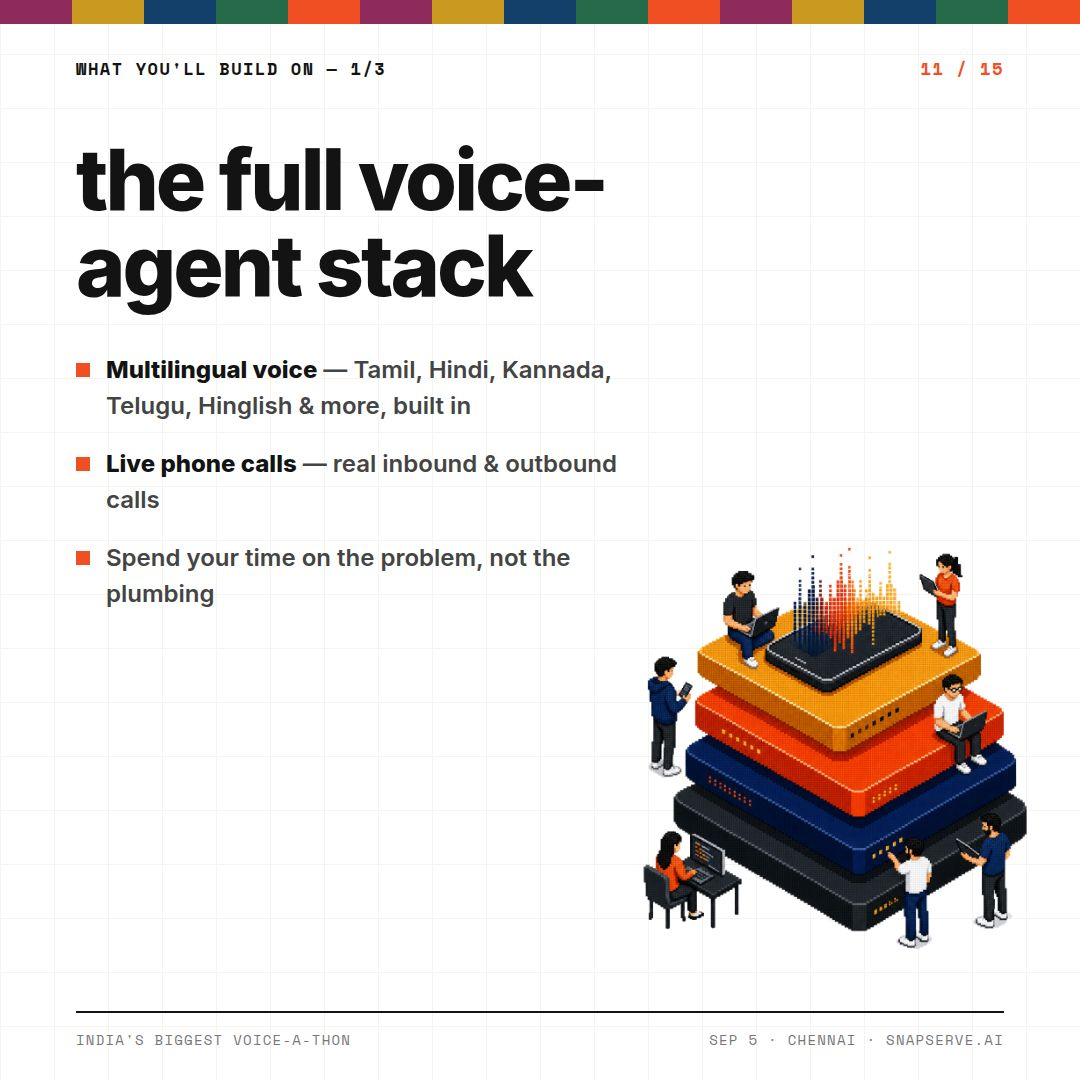
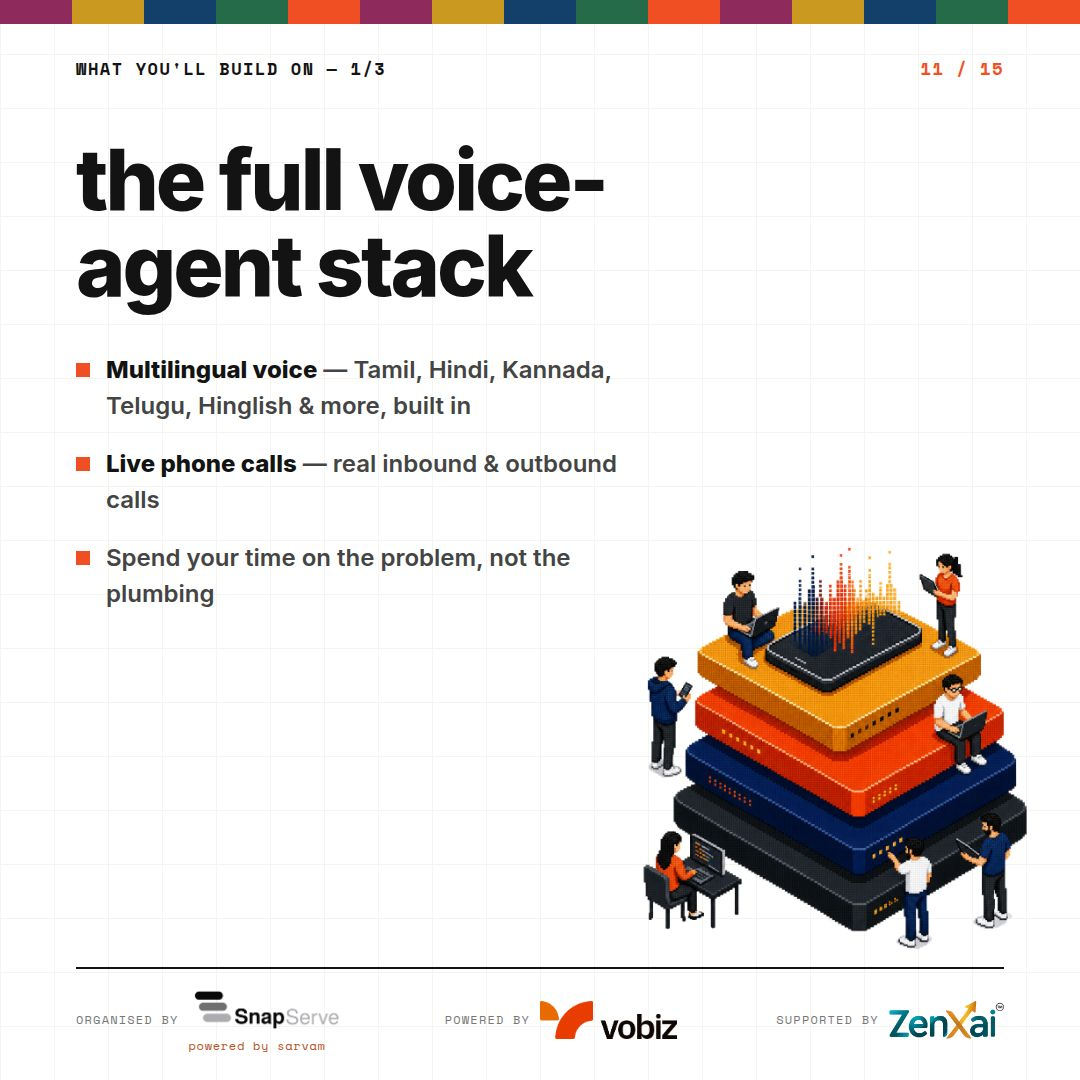
Update carousel posters and associated assets
Replit-Commit-Author: Agent

Changed region(s): [[0.0611, 0.9167, 0.3361, 0.9778], [0.7028, 0.9167, 0.9472, 0.9778], [0.3972, 0.9167, 0.6417, 0.9778]]

diff --git a/artifacts/snapserve-book/public/poster/c4.html b/artifacts/snapserve-book/public/poster/c4.html
@@ -34,9 +34,13 @@ body{font-family:'Inter',sans-serif;background:#fff;color:#131313;position:relat
   <div class="l1">deploy on a real<br>phone number</div>
   
   
-  <div class="body"><div class="li"><span class="dot"></span><span>Get a <b>live phone number</b> and deploy your agent on it</span></div><div class="li"><span class="dot"></span><span>This is <b>mandatory</b> — agents without a phone number are not eligible</span></div><div class="li"><span class="dot"></span><span>Real calls, not chat-window demos</span></div></div>
+  <div class="body"><div class="li"><span class="dot"></span><span>Get your <b>Vobiz number</b> right from the <b>SnapServe dashboard</b> — no separate setup</span></div><div class="li"><span class="dot"></span><span>Powered by <b>Vobiz — the most advanced AI telephony</b> for your AI agent</span></div><div class="li"><span class="dot"></span><span><b>Mandatory</b> — agents without a phone number are not eligible</span></div></div>
   
 </div>
 <div class="art"></div>
-<div class="run"><span>INDIA'S BIGGEST VOICE-A-THON</span><span>SEP 5 · CHENNAI · SNAPSERVE.AI</span></div>
+<div class="logos">
+  <div class="lg"><span>ORGANISED BY</span><span class="sscol"><img class="ss" src="snapserve-logo-t.png"><em>powered by sarvam</em></span></div>
+  <div class="lg"><span>POWERED BY</span><img src="vobiz-logo.png"></div>
+  <div class="lg"><span>SUPPORTED BY</span><img src="zenxai-logo.png"></div>
+</div>
 </body></html>

diff --git a/artifacts/snapserve-book/public/poster/c10.html b/artifacts/snapserve-book/public/poster/c10.html
@@ -38,5 +38,9 @@ body{font-family:'Inter',sans-serif;background:#fff;color:#131313;position:relat
   
 </div>
 <div class="art"></div>
-<div class="run"><span>INDIA'S BIGGEST VOICE-A-THON</span><span>SEP 5 · CHENNAI · SNAPSERVE.AI</span></div>
+<div class="logos">
+  <div class="lg"><span>ORGANISED BY</span><span class="sscol"><img class="ss" src="snapserve-logo-t.png"><em>powered by sarvam</em></span></div>
+  <div class="lg"><span>POWERED BY</span><img src="vobiz-logo.png"></div>
+  <div class="lg"><span>SUPPORTED BY</span><img src="zenxai-logo.png"></div>
+</div>
 </body></html>

diff --git a/artifacts/snapserve-book/public/poster/c11.html b/artifacts/snapserve-book/public/poster/c11.html
@@ -38,5 +38,9 @@ body{font-family:'Inter',sans-serif;background:#fff;color:#131313;position:relat
   
 </div>
 <div class="art"></div>
-<div class="run"><span>INDIA'S BIGGEST VOICE-A-THON</span><span>SEP 5 · CHENNAI · SNAPSERVE.AI</span></div>
+<div class="logos">
+  <div class="lg"><span>ORGANISED BY</span><span class="sscol"><img class="ss" src="snapserve-logo-t.png"><em>powered by sarvam</em></span></div>
+  <div class="lg"><span>POWERED BY</span><img src="vobiz-logo.png"></div>
+  <div class="lg"><span>SUPPORTED BY</span><img src="zenxai-logo.png"></div>
+</div>
 </body></html>

diff --git a/artifacts/snapserve-book/public/poster/c12.html b/artifacts/snapserve-book/public/poster/c12.html
@@ -38,5 +38,9 @@ body{font-family:'Inter',sans-serif;background:#fff;color:#131313;position:relat
   
 </div>
 <div class="art"></div>
-<div class="run"><span>INDIA'S BIGGEST VOICE-A-THON</span><span>SEP 5 · CHENNAI · SNAPSERVE.AI</span></div>
+<div class="logos">
+  <div class="lg"><span>ORGANISED BY</span><span class="sscol"><img class="ss" src="snapserve-logo-t.png"><em>powered by sarvam</em></span></div>
+  <div class="lg"><span>POWERED BY</span><img src="vobiz-logo.png"></div>
+  <div class="lg"><span>SUPPORTED BY</span><img src="zenxai-logo.png"></div>
+</div>
 </body></html>

diff --git a/artifacts/snapserve-book/public/poster/c13.html b/artifacts/snapserve-book/public/poster/c13.html
@@ -38,5 +38,9 @@ body{font-family:'Inter',sans-serif;background:#fff;color:#131313;position:relat
   
 </div>
 <div class="art"></div>
-<div class="run"><span>INDIA'S BIGGEST VOICE-A-THON</span><span>SEP 5 · CHENNAI · SNAPSERVE.AI</span></div>
+<div class="logos">
+  <div class="lg"><span>ORGANISED BY</span><span class="sscol"><img class="ss" src="snapserve-logo-t.png"><em>powered by sarvam</em></span></div>
+  <div class="lg"><span>POWERED BY</span><img src="vobiz-logo.png"></div>
+  <div class="lg"><span>SUPPORTED BY</span><img src="zenxai-logo.png"></div>
+</div>
 </body></html>

diff --git a/artifacts/snapserve-book/public/poster/c14.html b/artifacts/snapserve-book/public/poster/c14.html
@@ -38,5 +38,9 @@ body{font-family:'Inter',sans-serif;background:#fff;color:#131313;position:relat
   
 </div>
 <div class="art"></div>
-<div class="run"><span>INDIA'S BIGGEST VOICE-A-THON</span><span>SEP 5 · CHENNAI · SNAPSERVE.AI</span></div>
+<div class="logos">
+  <div class="lg"><span>ORGANISED BY</span><span class="sscol"><img class="ss" src="snapserve-logo-t.png"><em>powered by sarvam</em></span></div>
+  <div class="lg"><span>POWERED BY</span><img src="vobiz-logo.png"></div>
+  <div class="lg"><span>SUPPORTED BY</span><img src="zenxai-logo.png"></div>
+</div>
 </body></html>

diff --git a/artifacts/snapserve-book/public/poster/c2.html b/artifacts/snapserve-book/public/poster/c2.html
@@ -38,5 +38,9 @@ body{font-family:'Inter',sans-serif;background:#fff;color:#131313;position:relat
   
 </div>
 <div class="art"></div>
-<div class="run"><span>INDIA'S BIGGEST VOICE-A-THON</span><span>SEP 5 · CHENNAI · SNAPSERVE.AI</span></div>
+<div class="logos">
+  <div class="lg"><span>ORGANISED BY</span><span class="sscol"><img class="ss" src="snapserve-logo-t.png"><em>powered by sarvam</em></span></div>
+  <div class="lg"><span>POWERED BY</span><img src="vobiz-logo.png"></div>
+  <div class="lg"><span>SUPPORTED BY</span><img src="zenxai-logo.png"></div>
+</div>
 </body></html>

diff --git a/artifacts/snapserve-book/public/poster/c3.html b/artifacts/snapserve-book/public/poster/c3.html
@@ -38,5 +38,9 @@ body{font-family:'Inter',sans-serif;background:#fff;color:#131313;position:relat
   
 </div>
 <div class="art"></div>
-<div class="run"><span>INDIA'S BIGGEST VOICE-A-THON</span><span>SEP 5 · CHENNAI · SNAPSERVE.AI</span></div>
+<div class="logos">
+  <div class="lg"><span>ORGANISED BY</span><span class="sscol"><img class="ss" src="snapserve-logo-t.png"><em>powered by sarvam</em></span></div>
+  <div class="lg"><span>POWERED BY</span><img src="vobiz-logo.png"></div>
+  <div class="lg"><span>SUPPORTED BY</span><img src="zenxai-logo.png"></div>
+</div>
 </body></html>

diff --git a/artifacts/snapserve-book/public/poster/c5.html b/artifacts/snapserve-book/public/poster/c5.html
@@ -38,5 +38,9 @@ body{font-family:'Inter',sans-serif;background:#fff;color:#131313;position:relat
   
 </div>
 <div class="art"></div>
-<div class="run"><span>INDIA'S BIGGEST VOICE-A-THON</span><span>SEP 5 · CHENNAI · SNAPSERVE.AI</span></div>
+<div class="logos">
+  <div class="lg"><span>ORGANISED BY</span><span class="sscol"><img class="ss" src="snapserve-logo-t.png"><em>powered by sarvam</em></span></div>
+  <div class="lg"><span>POWERED BY</span><img src="vobiz-logo.png"></div>
+  <div class="lg"><span>SUPPORTED BY</span><img src="zenxai-logo.png"></div>
+</div>
 </body></html>

diff --git a/artifacts/snapserve-book/public/poster/c6.html b/artifacts/snapserve-book/public/poster/c6.html
@@ -38,5 +38,9 @@ body{font-family:'Inter',sans-serif;background:#fff;color:#131313;position:relat
   
 </div>
 <div class="art"></div>
-<div class="run"><span>INDIA'S BIGGEST VOICE-A-THON</span><span>SEP 5 · CHENNAI · SNAPSERVE.AI</span></div>
+<div class="logos">
+  <div class="lg"><span>ORGANISED BY</span><span class="sscol"><img class="ss" src="snapserve-logo-t.png"><em>powered by sarvam</em></span></div>
+  <div class="lg"><span>POWERED BY</span><img src="vobiz-logo.png"></div>
+  <div class="lg"><span>SUPPORTED BY</span><img src="zenxai-logo.png"></div>
+</div>
 </body></html>

diff --git a/artifacts/snapserve-book/public/poster/c7.html b/artifacts/snapserve-book/public/poster/c7.html
@@ -38,5 +38,9 @@ body{font-family:'Inter',sans-serif;background:#fff;color:#131313;position:relat
   
 </div>
 <div class="art"></div>
-<div class="run"><span>INDIA'S BIGGEST VOICE-A-THON</span><span>SEP 5 · CHENNAI · SNAPSERVE.AI</span></div>
+<div class="logos">
+  <div class="lg"><span>ORGANISED BY</span><span class="sscol"><img class="ss" src="snapserve-logo-t.png"><em>powered by sarvam</em></span></div>
+  <div class="lg"><span>POWERED BY</span><img src="vobiz-logo.png"></div>
+  <div class="lg"><span>SUPPORTED BY</span><img src="zenxai-logo.png"></div>
+</div>
 </body></html>

diff --git a/artifacts/snapserve-book/public/poster/c8.html b/artifacts/snapserve-book/public/poster/c8.html
@@ -38,5 +38,9 @@ body{font-family:'Inter',sans-serif;background:#fff;color:#131313;position:relat
   
 </div>
 <div class="art"></div>
-<div class="run"><span>INDIA'S BIGGEST VOICE-A-THON</span><span>SEP 5 · CHENNAI · SNAPSERVE.AI</span></div>
+<div class="logos">
+  <div class="lg"><span>ORGANISED BY</span><span class="sscol"><img class="ss" src="snapserve-logo-t.png"><em>powered by sarvam</em></span></div>
+  <div class="lg"><span>POWERED BY</span><img src="vobiz-logo.png"></div>
+  <div class="lg"><span>SUPPORTED BY</span><img src="zenxai-logo.png"></div>
+</div>
 </body></html>
